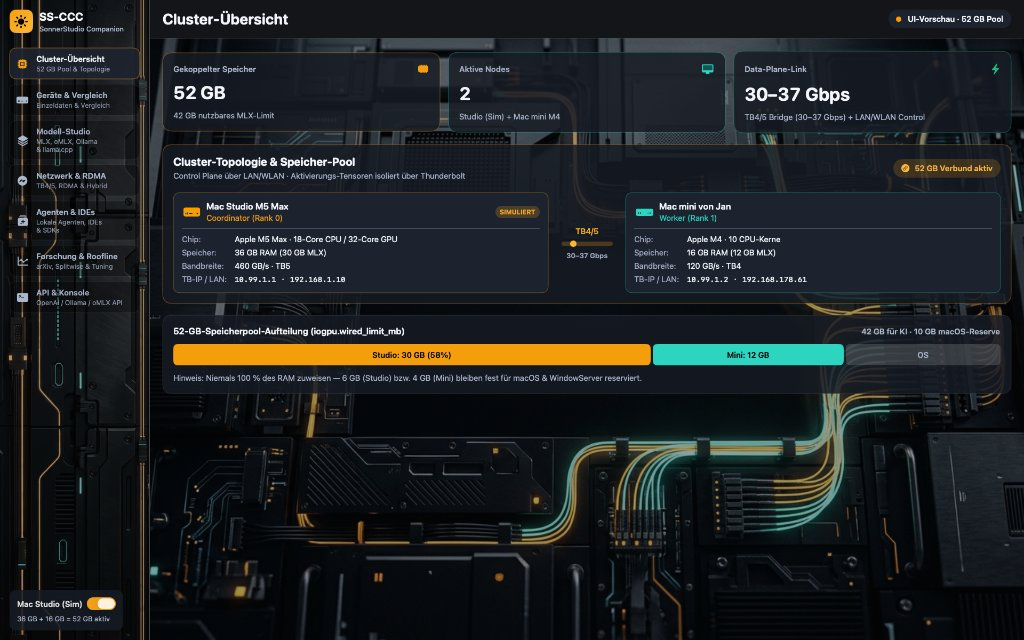
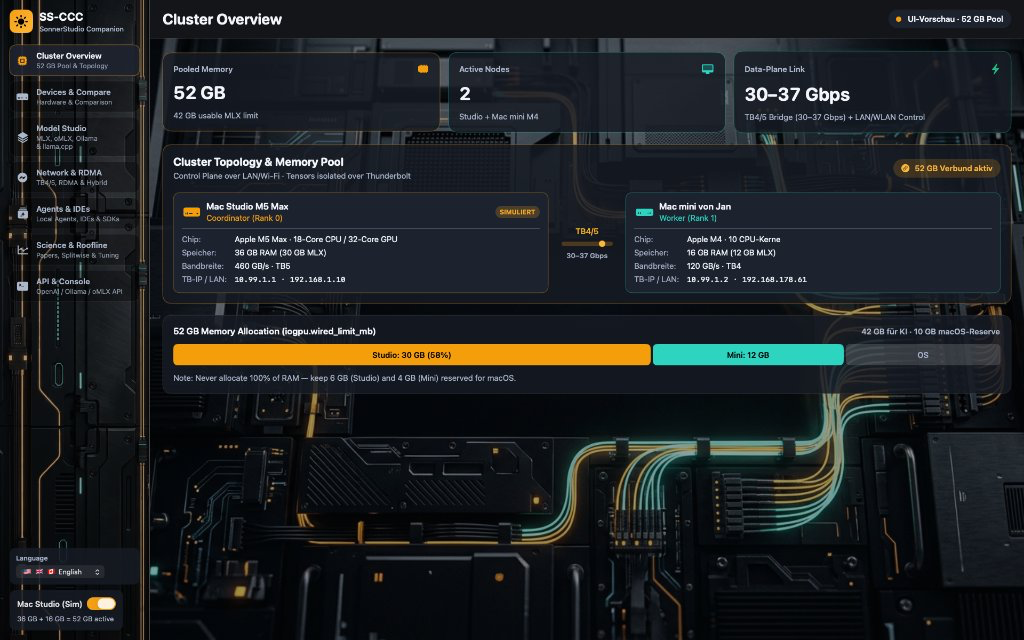
Update hero screenshot and make language dropdown full-width clickable

diff --git a/app/Sources/SSCCCApp.swift b/app/Sources/SSCCCApp.swift
@@ -99,13 +99,43 @@ struct MainStudioWindow: View {
                     Text(vm.t("language_label"))
                         .font(.system(size: 12.5, weight: .semibold))
                         .foregroundColor(SolarisTheme.textSecondary)
-                    Picker("", selection: $vm.language) {
+                    Menu {
                         ForEach(AppLanguage.allCases) { lang in
-                            Text(lang.shortLabel).tag(lang)
+                            Button {
+                                vm.language = lang
+                            } label: {
+                                if vm.language == lang {
+                                    Label(lang.shortLabel, systemImage: "checkmark")
+                                } else {
+                                    Text(lang.shortLabel)
+                                }
+                            }
                         }
+                    } label: {
+                        HStack {
+                            Text(vm.language.shortLabel)
+                                .font(SolarisTheme.bodyBold)
+                                .foregroundColor(SolarisTheme.textPrimary)
+                            Spacer(minLength: 0)
+                            Image(systemName: "chevron.up.chevron.down")
+                                .font(.system(size: 11, weight: .semibold))
+                                .foregroundColor(SolarisTheme.textSecondary)
+                        }
+                        .padding(.horizontal, 10)
+                        .padding(.vertical, 7)
+                        .frame(maxWidth: .infinity, alignment: .leading)
+                        .background(
+                            RoundedRectangle(cornerRadius: 8, style: .continuous)
+                                .fill(SolarisTheme.cardElevated.opacity(0.90))
+                                .overlay(
+                                    RoundedRectangle(cornerRadius: 8, style: .continuous)
+                                        .stroke(Color.white.opacity(0.10), lineWidth: 1)
+                                )
+                        )
+                        .contentShape(Rectangle())
                     }
-                    .labelsHidden()
-                    .pickerStyle(.menu)
+                    .menuStyle(.borderlessButton)
+                    .frame(maxWidth: .infinity)
                 }
                 .padding(12)
                 .frame(maxWidth: .infinity, alignment: .leading)
